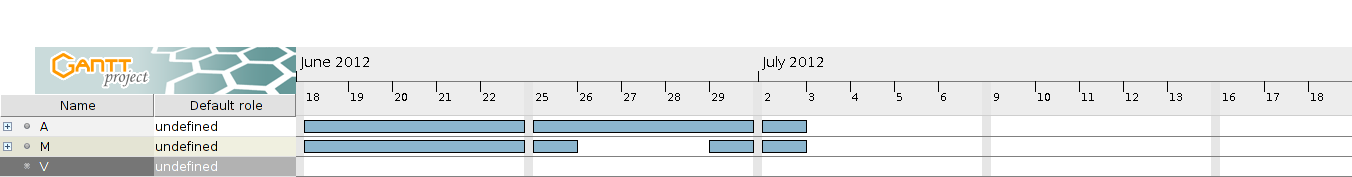
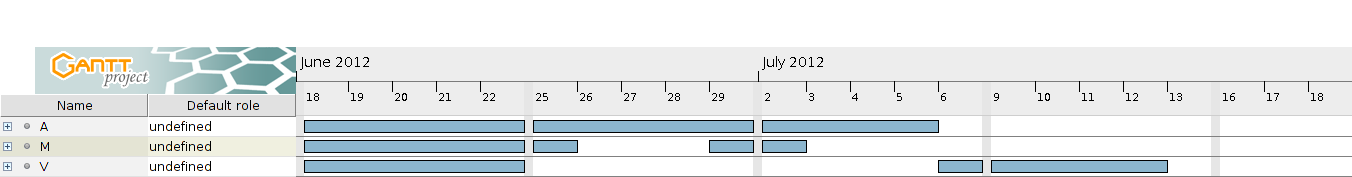
Added tests and ThinkingLifeCycle.

diff --git a/doc/gantt/2-tasks.html b/doc/gantt/2-tasks.html
@@ -419,6 +419,63 @@ h5.header {
 </div>
 </td><td valign="top" class="cell">A</td>
 </tr>
+<tr>
+<td valign="top" class="cell">
+<div style="margin:0; padding:0; padding-left:0em">
+<div style="margin: 0; padding: 0;">ThinkingLifecycle minimal</div>
+</div>
+</td><td valign="top" class="cell">
+<div style="margin:0; padding:0; padding-left:0.5em">
+<div style="margin: 0; padding: 0;">03/07/12</div>
+</div>
+</td><td valign="top" class="cell">
+<div style="margin:0; padding:0; padding-left:0.5em">
+<div style="margin: 0; padding: 0;">06/07/12</div>
+</div>
+</td><td valign="top" class="cell">
+<div style="margin:0; padding:0; padding-left:0.5em">
+<div style="margin: 0; padding: 0;">3</div>
+</div>
+</td><td valign="top" class="cell">A</td>
+</tr>
+<tr>
+<td valign="top" class="cell">
+<div style="margin:0; padding:0; padding-left:0em">
+<div style="margin: 0; padding: 0;">Test Lexical parsing</div>
+</div>
+</td><td valign="top" class="cell">
+<div style="margin:0; padding:0; padding-left:0.5em">
+<div style="margin: 0; padding: 0;">18/06/12</div>
+</div>
+</td><td valign="top" class="cell">
+<div style="margin:0; padding:0; padding-left:0.5em">
+<div style="margin: 0; padding: 0;">23/06/12</div>
+</div>
+</td><td valign="top" class="cell">
+<div style="margin:0; padding:0; padding-left:0.5em">
+<div style="margin: 0; padding: 0;">5</div>
+</div>
+</td><td valign="top" class="cell">V</td>
+</tr>
+<tr>
+<td valign="top" class="cell">
+<div style="margin:0; padding:0; padding-left:0em">
+<div style="margin: 0; padding: 0;">Test Complete life cycle</div>
+</div>
+</td><td valign="top" class="cell">
+<div style="margin:0; padding:0; padding-left:0.5em">
+<div style="margin: 0; padding: 0;">06/07/12</div>
+</div>
+</td><td valign="top" class="cell">
+<div style="margin:0; padding:0; padding-left:0.5em">
+<div style="margin: 0; padding: 0;">13/07/12</div>
+</div>
+</td><td valign="top" class="cell">
+<div style="margin:0; padding:0; padding-left:0.5em">
+<div style="margin: 0; padding: 0;">5</div>
+</div>
+</td><td valign="top" class="cell">V</td>
+</tr>
 </table>
 </center>
 <br>
@@ -426,7 +483,7 @@ h5.header {
 <tr>
 <td bgcolor="#6d9ec6" width="50%"><font color="#FFFFFF"><b>Ganttproject (2.0.10)</b></font></td><td bgcolor="#6d9ec6" width="50%" align="right"><b><a href="http://ganttproject.biz">ganttproject.biz</a></b>
 <br>
-<b>16/06/12 - 00:00:00</b></td>
+<b>17/06/12 - 00:00:00</b></td>
 </tr>
 </table>
 </body>

diff --git a/doc/gantt/2-chart.html b/doc/gantt/2-chart.html
@@ -122,7 +122,7 @@ div.page_links {
 <tr>
 <td bgcolor="#6d9ec6" width="50%"><font color="#FFFFFF"><b>Ganttproject (2.0.10)</b></font></td><td bgcolor="#6d9ec6" width="50%" align="right"><b><a href="http://ganttproject.biz">ganttproject.biz</a></b>
 <br>
-<b>16/06/12 - 00:00:00</b></td>
+<b>17/06/12 - 00:00:00</b></td>
 </tr>
 </table>
 </body>

diff --git a/doc/gantt/2.html b/doc/gantt/2.html
@@ -152,7 +152,7 @@ div.page_links {
 <tr>
 <td bgcolor="#6d9ec6" width="50%"><font color="#FFFFFF"><b>Ganttproject (2.0.10)</b></font></td><td bgcolor="#6d9ec6" width="50%" align="right"><b><a href="http://ganttproject.biz">ganttproject.biz</a></b>
 <br>
-<b>16/06/12 - 00:00:00</b></td>
+<b>17/06/12 - 00:00:00</b></td>
 </tr>
 </table>
 </body>

diff --git a/doc/gantt/2-resources.html b/doc/gantt/2-resources.html
@@ -166,7 +166,7 @@ h5.header {
 <tr>
 <td bgcolor="#6d9ec6" width="50%"><font color="#FFFFFF"><b>Ganttproject (2.0.10)</b></font></td><td bgcolor="#6d9ec6" width="50%" align="right"><b><a href="http://ganttproject.biz">ganttproject.biz</a></b>
 <br>
-<b>16/06/12 - 00:00:00</b></td>
+<b>17/06/12 - 00:00:00</b></td>
 </tr>
 </table>
 </body>
